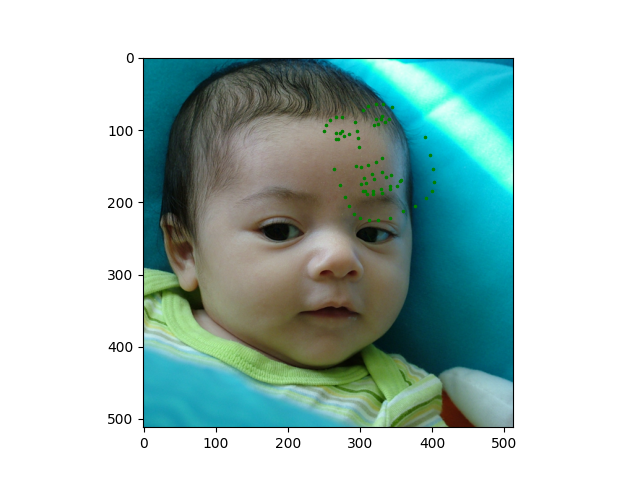
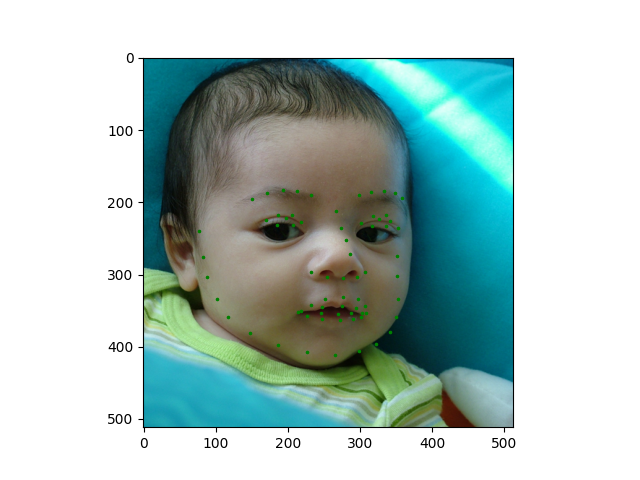
test module revision

diff --git a/test.py b/test.py
@@ -6,7 +6,7 @@ import random
 import os
 from torch.utils.tensorboard import SummaryWriter
 from PIL import Image
-
+from torchvision.transforms.functional import to_pil_image
 import natsort
 from retinaface import RetinaFace
 import matplotlib.pyplot as plt
@@ -17,8 +17,9 @@ import utils
 import data_load as data_load
 import math
 import numpy as np
+
 class test_module():
-    def __init__(self, datasetPath = None, pertrained = './pretrained/model_26.pt', saveDir = './test_result', IsGNLL = False, modelType = 'ResNet34'):
+    def __init__(self, datasetPath = None, pertrained = './pretrained/resNet_GNLL_120epoch.pt', saveDir = './test_result', IsGNLL = False, modelType = 'ResNet34'):
         
         self.device  = torch.device('cuda') if torch.cuda.is_available() else torch.device('cpu')
         if datasetPath is not None:
@@ -45,29 +46,40 @@ class test_module():
             raise ValueError
 
         self.model.load_state_dict(torch.load(args.pertrained))
+
     def _save_result(self, crop_img, pred_ladmks, image_name, face_num):
-        
         plt.clf()
         plt.imshow(crop_img)
-        print(pred_ladmks.shape)
+        #print(pred_ladmks.shape)
         plt.scatter(pred_ladmks[0, :, 0], pred_ladmks[0, : , 1], s=10, marker='.', c='g')
-        #plt.savefig('valid_GT_%d.png'%(num_epoch))
+        plt.savefig(self.saveDir + '/'+ image_name + '_face_%d.png'%(face_num))
+
+    def _save_result_std(self, crop_img, pred_ladmks, image_name, face_num):
+        cm = plt.cm.get_cmap('RdYlBu')
+        plt.clf()
+        plt.imshow(crop_img)
+        #print(pred_ladmks.shape)
+        plt.colorbar(plt.scatter(pred_ladmks[0, :, 0], pred_ladmks[0, : , 1], s=10, marker='.', c=np.exp(pred_ladmks[0, : , 2]), cmap=cm))
         plt.savefig(self.saveDir + '/'+ image_name + '_face_%d.png'%(face_num))
 
     def _merge4final_image(self, img, results_lst, image_name):
+        
         plt.clf()
         plt.imshow(img)
-
         for i in range(len(results_lst)):
-            left_corner_X, left_corner_Y, pred_ladmks = results_lst[i][0], results_lst[i][1], results_lst[i][2]
+            left_corner_X, left_corner_Y, pred_ladmks, ratio = results_lst[i][0], results_lst[i][1], results_lst[i][2], results_lst[i][3]
             # transfer to coordinate of original image
-            pred_ladmks = pred_ladmks + np.array([left_corner_X ,left_corner_Y]) ## is it right?
+            pred_ladmks[:, :, :2] = pred_ladmks[:, :, :2] * ratio + np.array([left_corner_X ,left_corner_Y]) 
+            print(pred_ladmks.shape)
             plt.scatter(pred_ladmks[0, :, 0], pred_ladmks[0, : , 1], s=10, marker='.', c='g')
         
         plt.savefig(self.saveDir + '/'+ image_name + '_inference.png')
     
-
     def inference_imgFolder(self, img_dir):
+        '''
+        img_dir: image directory(multi-images)
+        inference from image directory
+        '''
         img_list = natsort.natsorted(os.listdir(img_dir))
         result_total_lst = []
 
@@ -80,15 +92,16 @@ class test_module():
         return result_total_lst
      
     def inference_imgPath(self, img_path):
+        '''
+        img_path: image path
+        inference from image path
+        '''
         results_lst = []
         img = Image.open(img_path)
-        img = img.resize((512, 512)) ##  확인 필요 img pre processing에서 얼굴이 다 담겨야하는데 그렇지않음.
+        
         #size check
         width, height = img.size
-        #print("test image width : ", width)
-        #print("test image height : ", height)
-        assert  width >= 512 or height >= 512, "Test image is too small for this module. It should be bigger thant 512 x 512"
-        img.save(img_path)
+        
         # face detection
         resp = RetinaFace.detect_faces(img_path = img_path)
         # detection check
@@ -97,88 +110,86 @@ class test_module():
         # Conduct inference up to the number of detected faces
         for i in range(1, len(resp) + 1):
             try:
-                if resp["face_"+str(i)]['facial_area'][0] + 256 >= 512:
-                    resp["face_"+str(i)]['facial_area'][0] = 255
-                if resp["face_"+str(i)]['facial_area'][1] + 256 >= 512:
-                    resp["face_"+str(i)]['facial_area'][1] = 255
-                #Usually, the width of the bounding box is smaller than 256. 
-                #Thus, shift X coordinate to proper position for 256x256 bounding box
-                X_extra = (256 - (resp["face_"+str(i)]['facial_area'][2] - resp["face_"+str(i)]['facial_area'][0]))//2
-    
-                left_corner_X = resp["face_"+str(i)]['facial_area'][0]- X_extra
-                left_corner_Y = resp["face_"+str(i)]['facial_area'][1]
-
+                detect_w = resp["face_1"]['facial_area'][2] - resp["face_1"]['facial_area'][0]
+                detect_h = resp["face_1"]['facial_area'][3] - resp["face_1"]['facial_area'][1]
+                max_side = max(detect_w, detect_h)
+                # make the crop ROI as square followed by longer side
+                if detect_w <= detect_h:
+                    left_corner_X = resp["face_"+str(i)]['facial_area'][0] -  ((detect_h - detect_w) //2)
+                    left_corner_Y = resp["face_"+str(i)]['facial_area'][1]
+                    ratio = detect_h/256
+                else:
+                    left_corner_X = resp["face_"+str(i)]['facial_area'][0] 
+                    left_corner_Y = resp["face_"+str(i)]['facial_area'][1]-  ((detect_w - detect_h) //2)
+                    ratio = detect_w/256
             except TypeError:
                 #When there is any error, just assume that bounding box is placed in center of the image
-                print("detection error occur")
-                left_corner_X = 128
-                left_corner_Y = 128
+                print("detection error occur: There is certain case which can not proper alginmnet")
+                raise ValueError
 
             #crop image
-            crop_img = img.crop((left_corner_X, left_corner_Y, left_corner_X + 256, left_corner_Y + 256))
-            
+            crop_img = img.crop((left_corner_X, left_corner_Y, left_corner_X + max_side, left_corner_Y + max_side))
+            crop_img = crop_img.resize((256, 256))
+
             #inference
             pred_ladmks = self.inference_img(crop_img)
-
-            results_lst.append([pred_ladmks + np.array([left_corner_X ,left_corner_Y])])
-        
+            pred_ladmks[ :, :2] = pred_ladmks[ :, :2] * ratio + np.array([left_corner_X ,left_corner_Y]) 
+            results_lst.append([pred_ladmks])
+            
         return results_lst
     
     def inference_img(self, crop_img):
         '''
-        crop_img => PIL image
+        crop_img: PIL image
+
+        inference input img
         '''
         width, height = crop_img.size
         assert  width == 256 and height == 256, "The size of input image must be 256x256 but it is not"
         crop_img = torchvision.transforms.ToTensor()(crop_img).to(self.device)
         with torch.no_grad():
-            pred_ladmks = self.model(crop_img.unsqueeze(0))
-        
-        return pred_ladmks.reshape(-1 ,2).cpu().numpy()
+            pred_ladmks = self.model(crop_img.unsqueeze(0)).squeeze(0)
+            #print(pred_ladmks.shape)
+        if self.IsGNLL == True:
+            return pred_ladmks.reshape(-1 ,3).cpu().numpy()
+        else:
+            return pred_ladmks.reshape(-1 ,2).cpu().numpy()
 
     def inference(self):
         for iter_num, img_name in enumerate(self.img_list):
 
             results_lst = []
-
             img_path = self.img_dir + '/' + self.img_list[iter_num]
             img = Image.open(img_path)
-            img = img.resize((512, 512))
-            
-            #size check
-            width, height = img.size
-            print("test image width : ", width)
-            print("test image height : ", height)
-            assert  width >= 512 or height >= 512, "Test image is too small for this module. It should be bigger thant 512 x 512"
-            img.save(img_path)
+
             # face detection
             resp = RetinaFace.detect_faces(img_path = img_path)
             # detection check
             assert len(resp) != 0, "Can not detect face"
             
-            # Conduct inference up to the number of detected faces
+            # Conduct inference up to the number of detected faces & align
             for i in range(1, len(resp) + 1):
                 try:
-                    if resp["face_"+str(i)]['facial_area'][0] + 256 >= 512:
-                        resp["face_"+str(i)]['facial_area'][0] = 255
-                    if resp["face_"+str(i)]['facial_area'][1] + 256 >= 512:
-                        resp["face_"+str(i)]['facial_area'][1] = 255
-                    
-                    #Usually, the width of the bounding box is smaller than 256. 
-                    #Thus, shift X coordinate to proper position for 256x256 bounding box
-                    X_extra = (256 - (resp["face_"+str(i)]['facial_area'][2] - resp["face_"+str(i)]['facial_area'][0]))//2
-                    
-                    left_corner_X = resp["face_"+str(i)]['facial_area'][0]- X_extra
-                    left_corner_Y = resp["face_"+str(i)]['facial_area'][1]
-
+                    detect_w = resp["face_1"]['facial_area'][2] - resp["face_1"]['facial_area'][0]
+                    detect_h = resp["face_1"]['facial_area'][3] - resp["face_1"]['facial_area'][1]
+                    max_side = max(detect_w, detect_h)
+                    # make the crop ROI as square followed by longer side
+                    if detect_w <= detect_h:
+                        left_corner_X = resp["face_"+str(i)]['facial_area'][0] - ((detect_h - detect_w) //2)
+                        left_corner_Y = resp["face_"+str(i)]['facial_area'][1]
+                        ratio = detect_h/256
+                    else:
+                        left_corner_X = resp["face_"+str(i)]['facial_area'][0] 
+                        left_corner_Y = resp["face_"+str(i)]['facial_area'][1] - ((detect_w - detect_h) //2)
+                        ratio = detect_w/256
                 except TypeError:
                     #When there is any error, just assume that bounding box is placed in center of the image
-                    print("detection error occur")
-                    left_corner_X = 128
-                    left_corner_Y = 128
+                    print("detection error occur: There is certain case which can not proper alginmnet")
+                    raise ValueError
 
                 #crop image
-                crop_img = img.crop((left_corner_X, left_corner_Y, left_corner_X + 256, left_corner_Y + 256))
+                crop_img = img.crop((left_corner_X, left_corner_Y, left_corner_X + max_side, left_corner_Y + max_side))
+                crop_img = crop_img.resize((256, 256))
                 crop_img = torchvision.transforms.ToTensor()(crop_img).to(self.device)
                 
                 #inference
@@ -186,11 +197,16 @@ class test_module():
                     pred_ladmks = self.model(crop_img.unsqueeze(0))
 
                 #save individual image
-                
                 crop_img = crop_img.mul(255).add_(0.5).clamp_(0, 255).permute(1, 2, 0).to("cpu", torch.uint8).numpy()
-                pred_ladmks = pred_ladmks.reshape(1, -1 ,2).cpu().numpy()
-                self._save_result(crop_img, pred_ladmks, self.img_list[iter_num], i)
-                results_lst.append([left_corner_X, left_corner_Y, pred_ladmks])
+
+                if self.IsGNLL == True:
+                    pred_ladmks = pred_ladmks.reshape(1, -1 ,3).cpu().numpy()
+                    self._save_result_std(crop_img, pred_ladmks, self.img_list[iter_num], i)
+                else:
+                    pred_ladmks = pred_ladmks.reshape(1, -1 ,2).cpu().numpy()
+                    self._save_result(crop_img, pred_ladmks, self.img_list[iter_num], i)
+
+                results_lst.append([left_corner_X, left_corner_Y, pred_ladmks, ratio])
             
             #merge with overall image
             self._merge4final_image(img, results_lst, self.img_list[iter_num])
@@ -213,7 +229,7 @@ import argparse
 parser = argparse.ArgumentParser()
 #parser.add_argument('--name', type=str)
 parser.add_argument('--datasetPath', type=str, default="./test_image")
-parser.add_argument('--pertrained', type=str, default='./pretrained/model_99.pt')
+parser.add_argument('--pertrained', type=str, default='./pretrained/resNet_GNLL_120epoch.pt')
 
 parser.add_argument('--saveDir', type=str, default='./test_result')
 parser.add_argument('--gpu', type=str, default='0', help='gpu')
@@ -232,7 +248,7 @@ def test(args):
 
     test_class = test_module(datasetPath = args.datasetPath , pertrained = args.pertrained, saveDir = args.saveDir, IsGNLL = args.IsGNLL, modelType = args.modelType)
     
-    _ = test_class.inference()
+    #_ = test_class.inference()
 
     #test code level 
 
@@ -244,11 +260,23 @@ def test(args):
     img = Image.open(path)
     img = img.resize((256, 256))
     info_3 = test_class.inference_img(img)
-    print("info_3: ", type(info_3))'''
+    print("info_3: ", info_3)
     
     print("######### Check your result #########")
-    print("######### Test Done #########")
-    # inference 함수로 옮겨야함.
+    print("######### Test Done #########")'''
+
+    #visual test
+
+    path = "/root/landmark_detection/test_image/FFHQ00002.png"
+    img = Image.open(path)
+    img = img.resize((256, 256))
+
+    info_3 = test_class.inference_img(img)
+    #MSE model
+    test_class._save_result(img, np.expand_dims(info_3, axis = 0), "_save_result_std", 0)
+    #GNLL model
+    test_class._save_result_std(img, np.expand_dims(info_3, axis = 0), "_save_result_std", 0)
+    
     
 if __name__ == "__main__":
     test(args)

diff --git a/others/Retina_test/RetinaFace.py b/others/Retina_test/RetinaFace.py
@@ -10,26 +10,31 @@ import matplotlib.pyplot as plt
 
 #idx= 114 # target index
 
-root = "/data2/MS-FaceSynthetic"
+'''root = "/data2/MS-FaceSynthetic"
 img_path = os.path.join(root, "img")
 img_list = natsort.natsorted(os.listdir(img_path))
-num_of_sample = 2
-for idx in range(num_of_sample):
-    img = Image.open(img_path + '/' + img_list[idx])
+num_of_sample = 2'''
+#for idx in range(num_of_sample):
+img_path = "/root/landmark_detection/test_image/000000.png"
+img = Image.open(img_path)
 
-    resp = RetinaFace.detect_faces(img_path = img_path + '/' + img_list[idx])
-    print(resp)
-    print("resp['face_1']['facial_area']: ", resp["face_1"]['facial_area'])
-    print("resp['face_1']['facial_area'][0]: ", resp["face_1"]['facial_area'][0])
-    print("resp['face_1']['facial_area'][1]: ", resp["face_1"]['facial_area'][1])
-    print("resp['face_1']['facial_area'][2]: ", resp["face_1"]['facial_area'][2])
-    print("resp['face_1']['facial_area'][3]: " ,resp["face_1"]['facial_area'][3])
-    print("type: resp['face_1']['facial_area']: ", type(resp["face_1"]['facial_area'][1]))
+resp = RetinaFace.detect_faces(img_path = img_path)
+print(resp)
+print("resp['face_1']['facial_area']: ", resp["face_1"]['facial_area'])
+print("resp['face_1']['facial_area'][0]: ", resp["face_1"]['facial_area'][0])
+print("resp['face_1']['facial_area'][1]: ", resp["face_1"]['facial_area'][1])
+print("resp['face_1']['facial_area'][2]: ", resp["face_1"]['facial_area'][2])
+print("resp['face_1']['facial_area'][3]: " ,resp["face_1"]['facial_area'][3])
 
-    faces = RetinaFace.extract_faces(img_path = img_path + '/' + img_list[idx], align = False)
-    plt.imshow(img)
-    plt.savefig('RetinaFace_GT_%d.png'%(idx))
+print("2 - 0 ", resp["face_1"]['facial_area'][2] - resp["face_1"]['facial_area'][0])
+print("3 - 1 ", resp["face_1"]['facial_area'][3] - resp["face_1"]['facial_area'][1])
 
-    plt.clf()
-    plt.imshow(faces[0])
-    plt.savefig('RetinaFace_test_%d.png'%(idx))
+print("type: resp['face_1']['facial_area']: ", type(resp["face_1"]['facial_area'][1]))
+
+faces = RetinaFace.extract_faces(img_path = img_path, align = False)
+plt.imshow(img)
+plt.savefig('RetinaFace_GT_%d.png'%(0))
+
+plt.clf()
+plt.imshow(faces[0])
+plt.savefig('RetinaFace_test_%d.png'%(0))

diff --git a/visualization.py b/visualization.py
@@ -1,0 +1,55 @@
+import matplotlib.pyplot as plt
+import numpy as np
+
+def save_result(img, pred_ladmks, save_name):
+    '''
+    img: PIL Image
+    pred_ladmks: 3d array (1 ,70, 2) 
+    '''
+    assert pred_ladmks.shape == (1,70,2), "pred_ladmks.shape is not (1,70,2)"
+    plt.clf()
+    plt.imshow(img)
+    plt.scatter(pred_ladmks[0, :, 0], pred_ladmks[0, : , 1], s=10, marker='.', c='g')
+    plt.savefig(save_name + '.png')
+
+def save_result_std(img, pred_ladmks, save_name):
+    '''
+    img: PIL Image
+    pred_ladmks: 3d array (1 ,70, 3) 
+    '''
+    assert pred_ladmks.shape == (1,70,3), "pred_ladmks.shape is not (1,70,2)"
+    cm = plt.cm.get_cmap('RdYlBu')
+    plt.clf()
+    plt.imshow(img)
+    plt.colorbar(plt.scatter(pred_ladmks[0, :, 0], pred_ladmks[0, : , 1], s=10, marker='.', c=np.exp(pred_ladmks[0, : , 2]), cmap=cm))
+    plt.savefig(save_name + '.png')
+
+
+if __name__ == "__main__":
+    import resNet34
+    import torchvision
+    from PIL import Image
+    import torch
+    device  = torch.device('cuda') if torch.cuda.is_available() else torch.device('cpu')    
+    
+    img_path = "./test_image/FFHQ00002.png"
+    img = Image.open(img_path).convert('RGB')
+    img = img.resize((256, 256))
+    img_tensor = torchvision.transforms.ToTensor()(img).to(device)
+                
+    model = resNet34.ResNet34(output_param = 3).to(device).eval()
+    model.load_state_dict(torch.load("/root/landmark_detection/pretrained/resNet_GNLL_120epoch.pt"))
+    with torch.no_grad():
+        pred_ladmks = model(img_tensor.unsqueeze(0)).reshape(1, -1 ,3).cpu().numpy()
+
+    ### img = img_tensor.mul(255).add_(0.5).clamp_(0, 255).permute(1, 2, 0).to("cpu", torch.uint8).numpy()
+    save_result_std(img, pred_ladmks, "./save_result_std")
+
+    model = resNet34.ResNet34(output_param = 2).to(device).eval() # x, y
+    model.load_state_dict(torch.load("/root/landmark_detection/pretrained/resNet_MSE_120epoch.pt"))
+    with torch.no_grad():
+        pred_ladmks = model(img_tensor.unsqueeze(0)).reshape(1, -1 ,2).cpu().numpy()
+
+    ### img = img_tensor.mul(255).add_(0.5).clamp_(0, 255).permute(1, 2, 0).to("cpu", torch.uint8).numpy()
+    
+    save_result(img, pred_ladmks, "./save_result")
